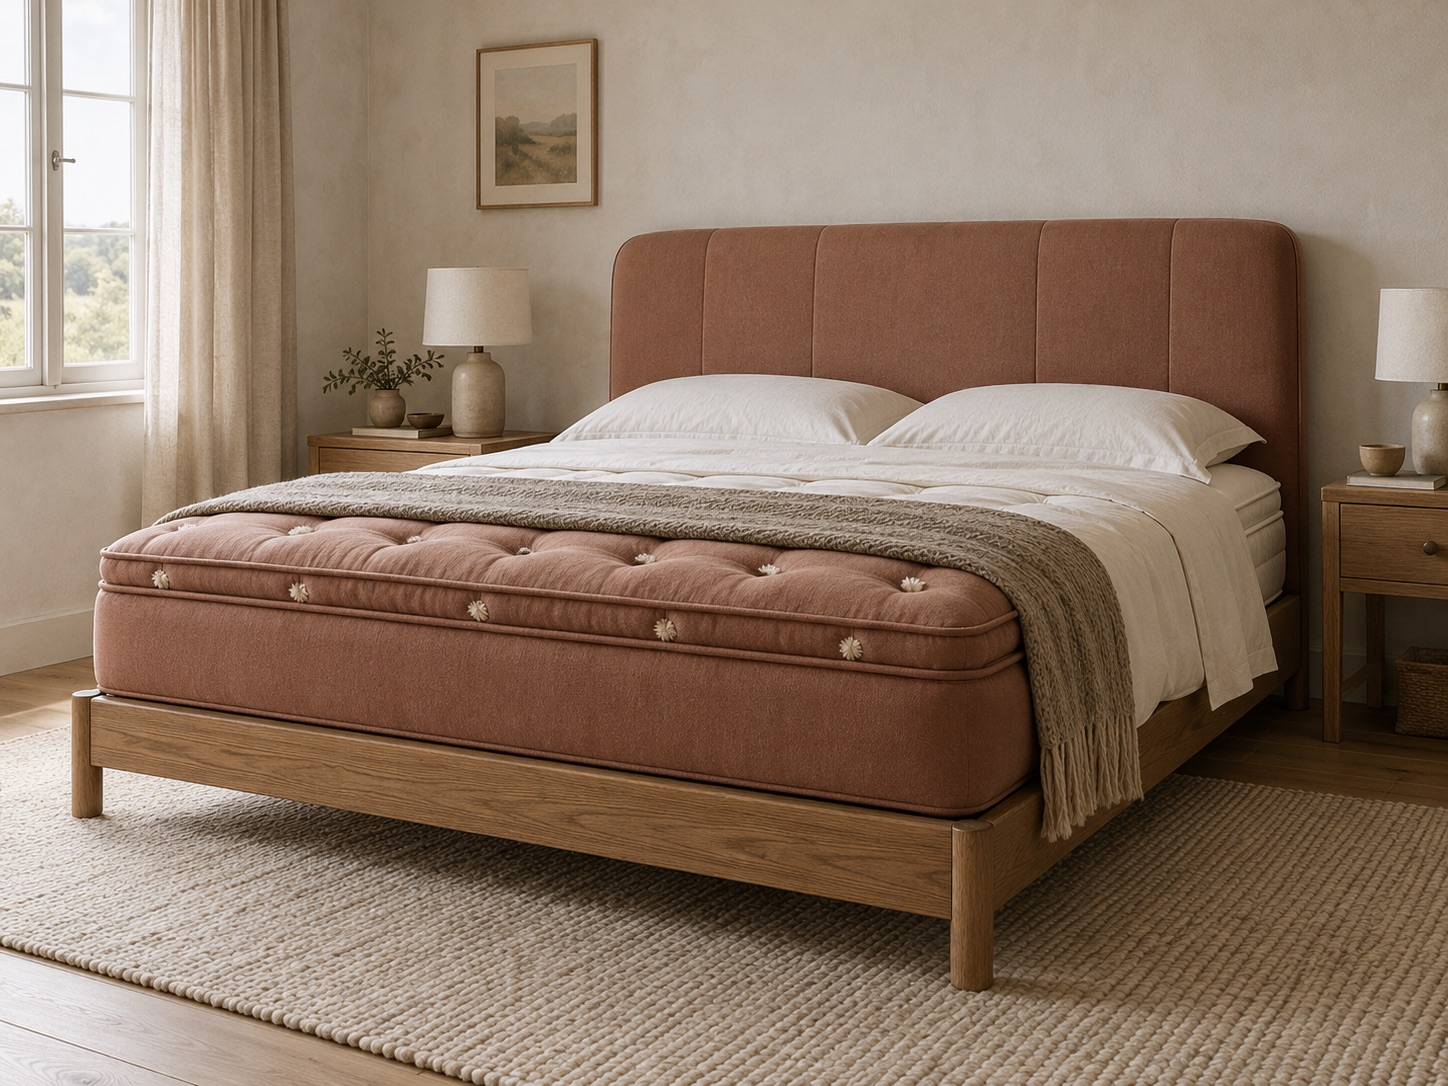
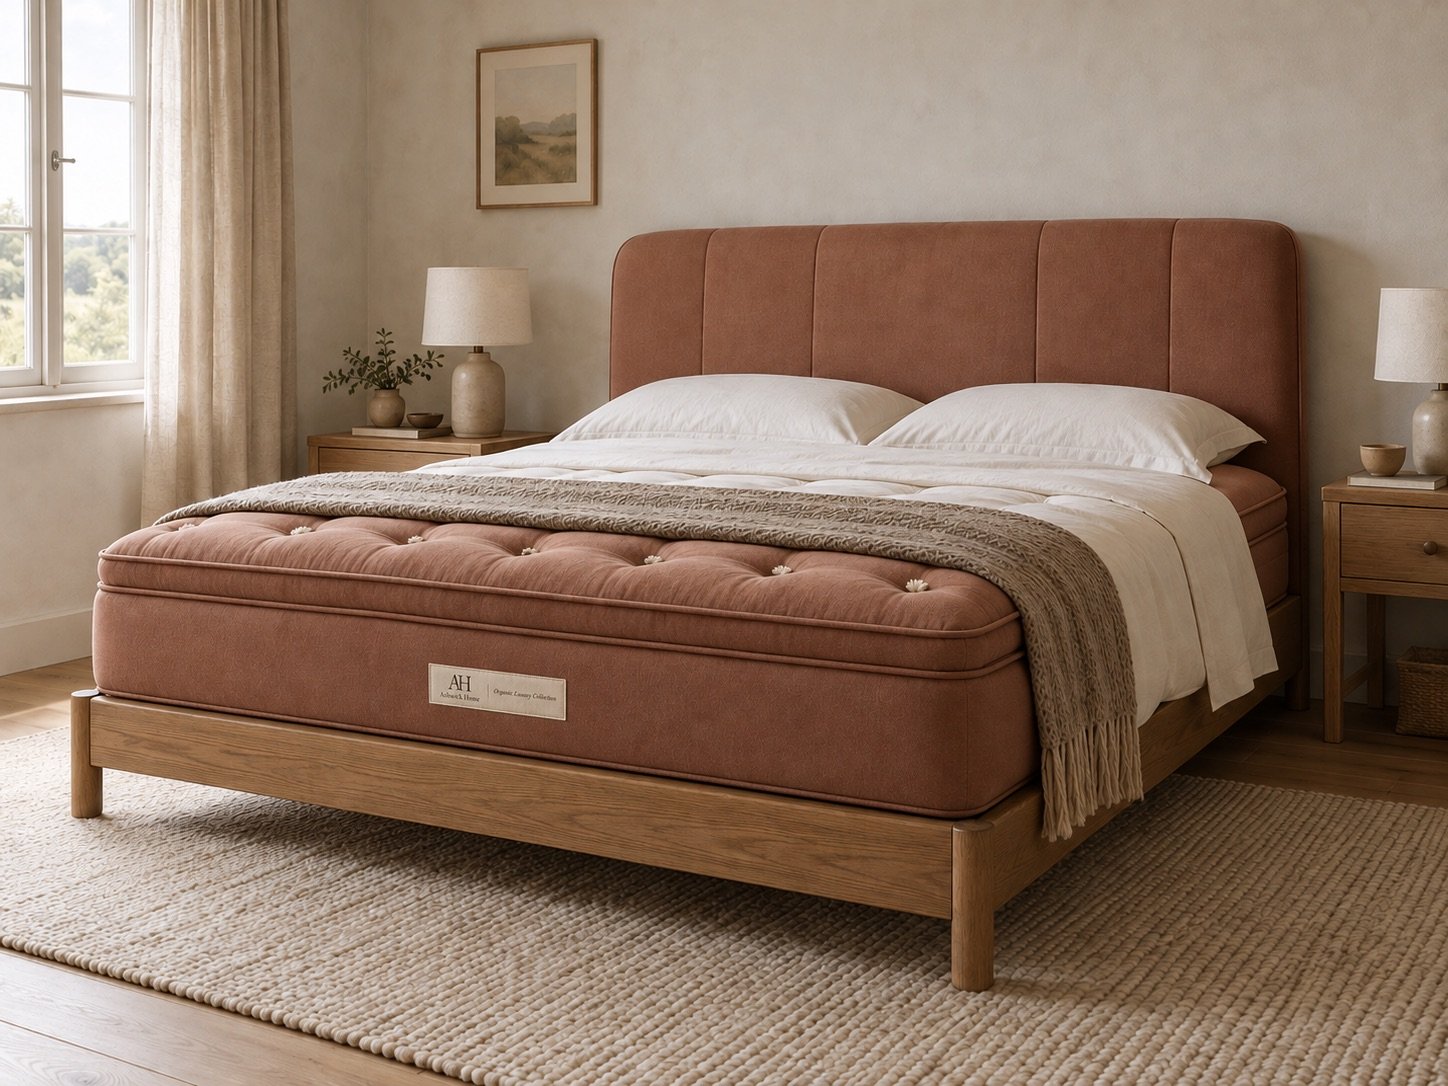
Bespoke Imagine: re-rendered headboard and four-poster photos (#47)
Claude-Session: https://claude.ai/code/session_01BdupDbY4vAUPMLYs1EoME5

diff --git a/app/pages/bespoke/page.tsx b/app/pages/bespoke/page.tsx
@@ -24,10 +24,10 @@ const ONE_RULE = "solid hardwood, wool, cashmere, linen, cotton, horsehair, coir
 const IMAGINE: [string, string, PhotoKey][] = [
   ["A curved sofa that follows the line of a bay window.", "A curved cream sofa following the line of a bay window, a round oak table in front", "imagine-bay-sofa"],
   ["A deep daybed for a sunroom, upholstered in undyed linen.", "A deep linen daybed on an oak frame in a garden room with tall oak windows", "imagine-daybed"],
-  ["An Ashbury mattress cut to fit a hundred-year-old four-poster.", "A cream tufted Ashbury fitted into an antique dark oak four-poster bed", "imagine-four-poster"],
+  ["An Ashbury mattress cut to fit a hundred-year-old four-poster.", "A cream tufted Ashbury with its Ashwick Home label, fitted into an antique dark oak four-poster bed", "imagine-four-poster"],
   ["A long dining bench in solid oak with a horsehair-and-wool cushion.", "A long solid oak dining bench with a linen-covered cushion beside an oak table", "imagine-bench"],
   ["A pair of reading chairs scaled to the person who'll sit in them.", "A pair of linen wingback reading chairs by a window, a walnut side table between them", "imagine-chairs"],
-  ["A headboard wrapped in the same Sorrel cotton as the bed.", "A Sorrel cotton headboard behind a matching tufted Ashbury on an oak bed frame", "imagine-headboard"],
+  ["A headboard wrapped in the same Sorrel cotton as the bed.", "A Sorrel cotton headboard behind a matching tufted Ashbury with its Ashwick Home label, on an oak bed frame", "imagine-headboard"],
 ];
 
 type Step = { t: string; d: string; img?: PhotoKey; alt?: string };
